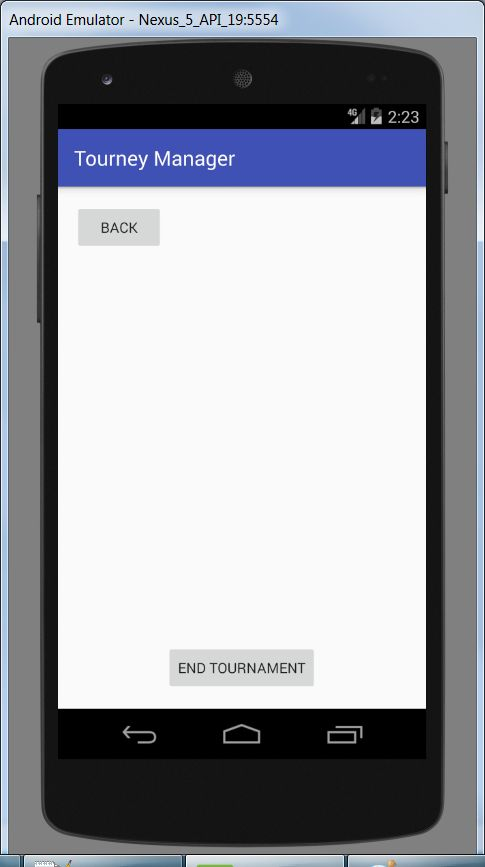
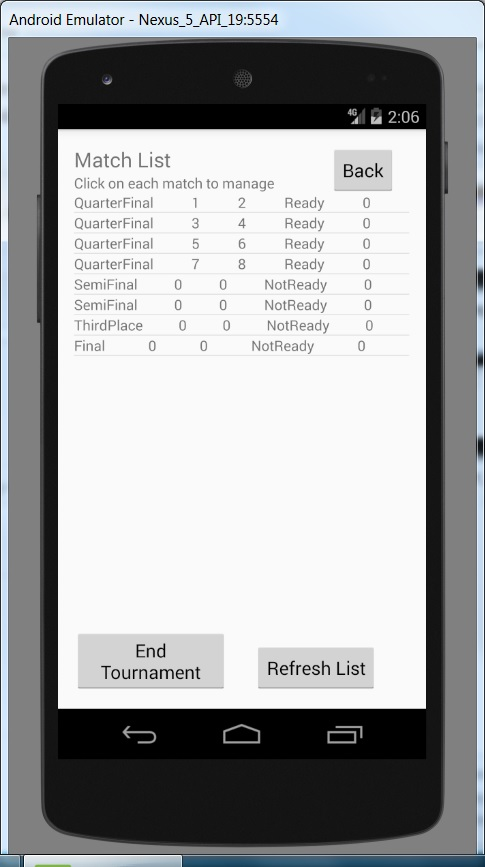
Updated screenshots for the user manual

diff --git a/GroupProject/Docs/UserManual.md b/GroupProject/Docs/UserManual.md
@@ -34,6 +34,11 @@ Match list shows tournament manager the list of matches for the ongoing tourname
 
 ![] (https://github.gatech.edu/gt-omscs-se-2017spring/6300Spring17Team50/blob/master/GroupProject/Docs/Screenshots/match_list.jpg)
 
+> **Note:** When there is no ongoing tournament, no matches are shown, as none are played or pending.
+
+![] (https://github.gatech.edu/gt-omscs-se-2017spring/6300Spring17Team50/blob/master/GroupProject/Docs/Screenshots/match_list_no_tourney.jpg)
+
+
 #### 2.1.2 Player List
 
 Player list allows manager to see a list of all players in the system, as well as to update a player's profile.
@@ -58,27 +63,33 @@ House profit = Number of players * Entry fee * House cut.
 
 For example, if there are 8 players in a tournament, the entry fee is $100, and the house cut is 20%, then:
 
+```
 House profit = 8 * $100 * 0.2 = $160
+```
 
 First place prize is calculated as 50% of the pot after the house cut.  Using the above example,
 
+```
 1st place = 8 * $100 * 0.8 * 0.5 = $320.
+```
 
 Second place prize is calculated as 30% of the pot after the house cut. Using the same example,
 
+```
 2nd place = 8 * $100 * 0.8 * 0.3 = $192.
+```
 
 Third place prize is calculated as the remaining pot, or 20% of the pot after the house cut.  Using the same example,
 
+```
 3rd place = 8 * $100 * 0.8 * 0.2 = $128.
+```
  
 ![] (https://github.gatech.edu/gt-omscs-se-2017spring/6300Spring17Team50/blob/master/GroupProject/Docs/Screenshots/start_tournament.jpg)
-
 
 ### 2.2 Player Mode
 
 Player mode as two options, Match List and Player List.
-
 
 ![] (https://github.gatech.edu/gt-omscs-se-2017spring/6300Spring17Team50/blob/master/GroupProject/Docs/Screenshots/player_mode.jpg)
 
